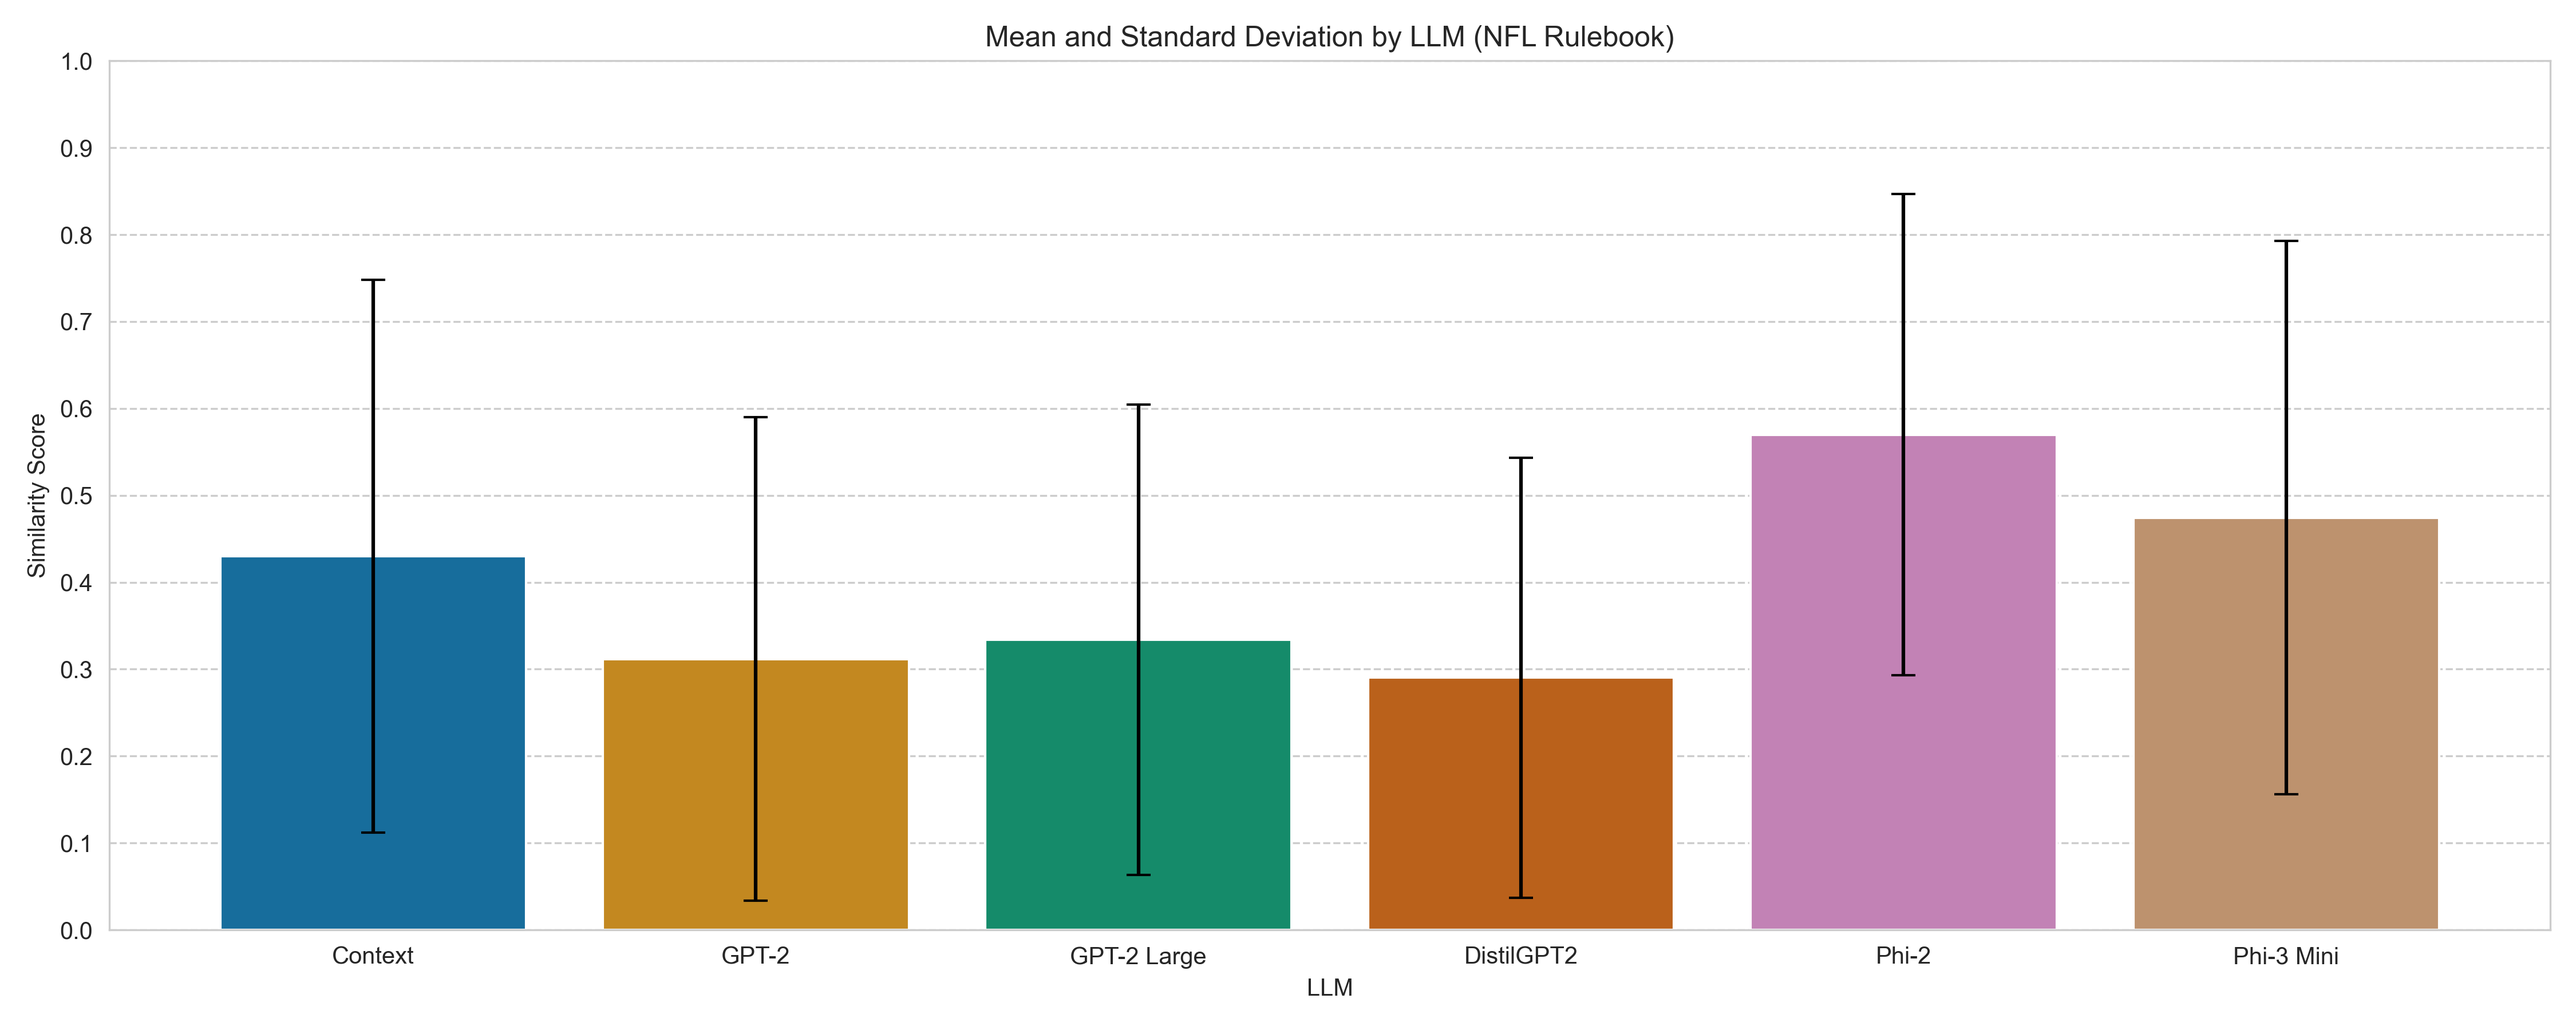
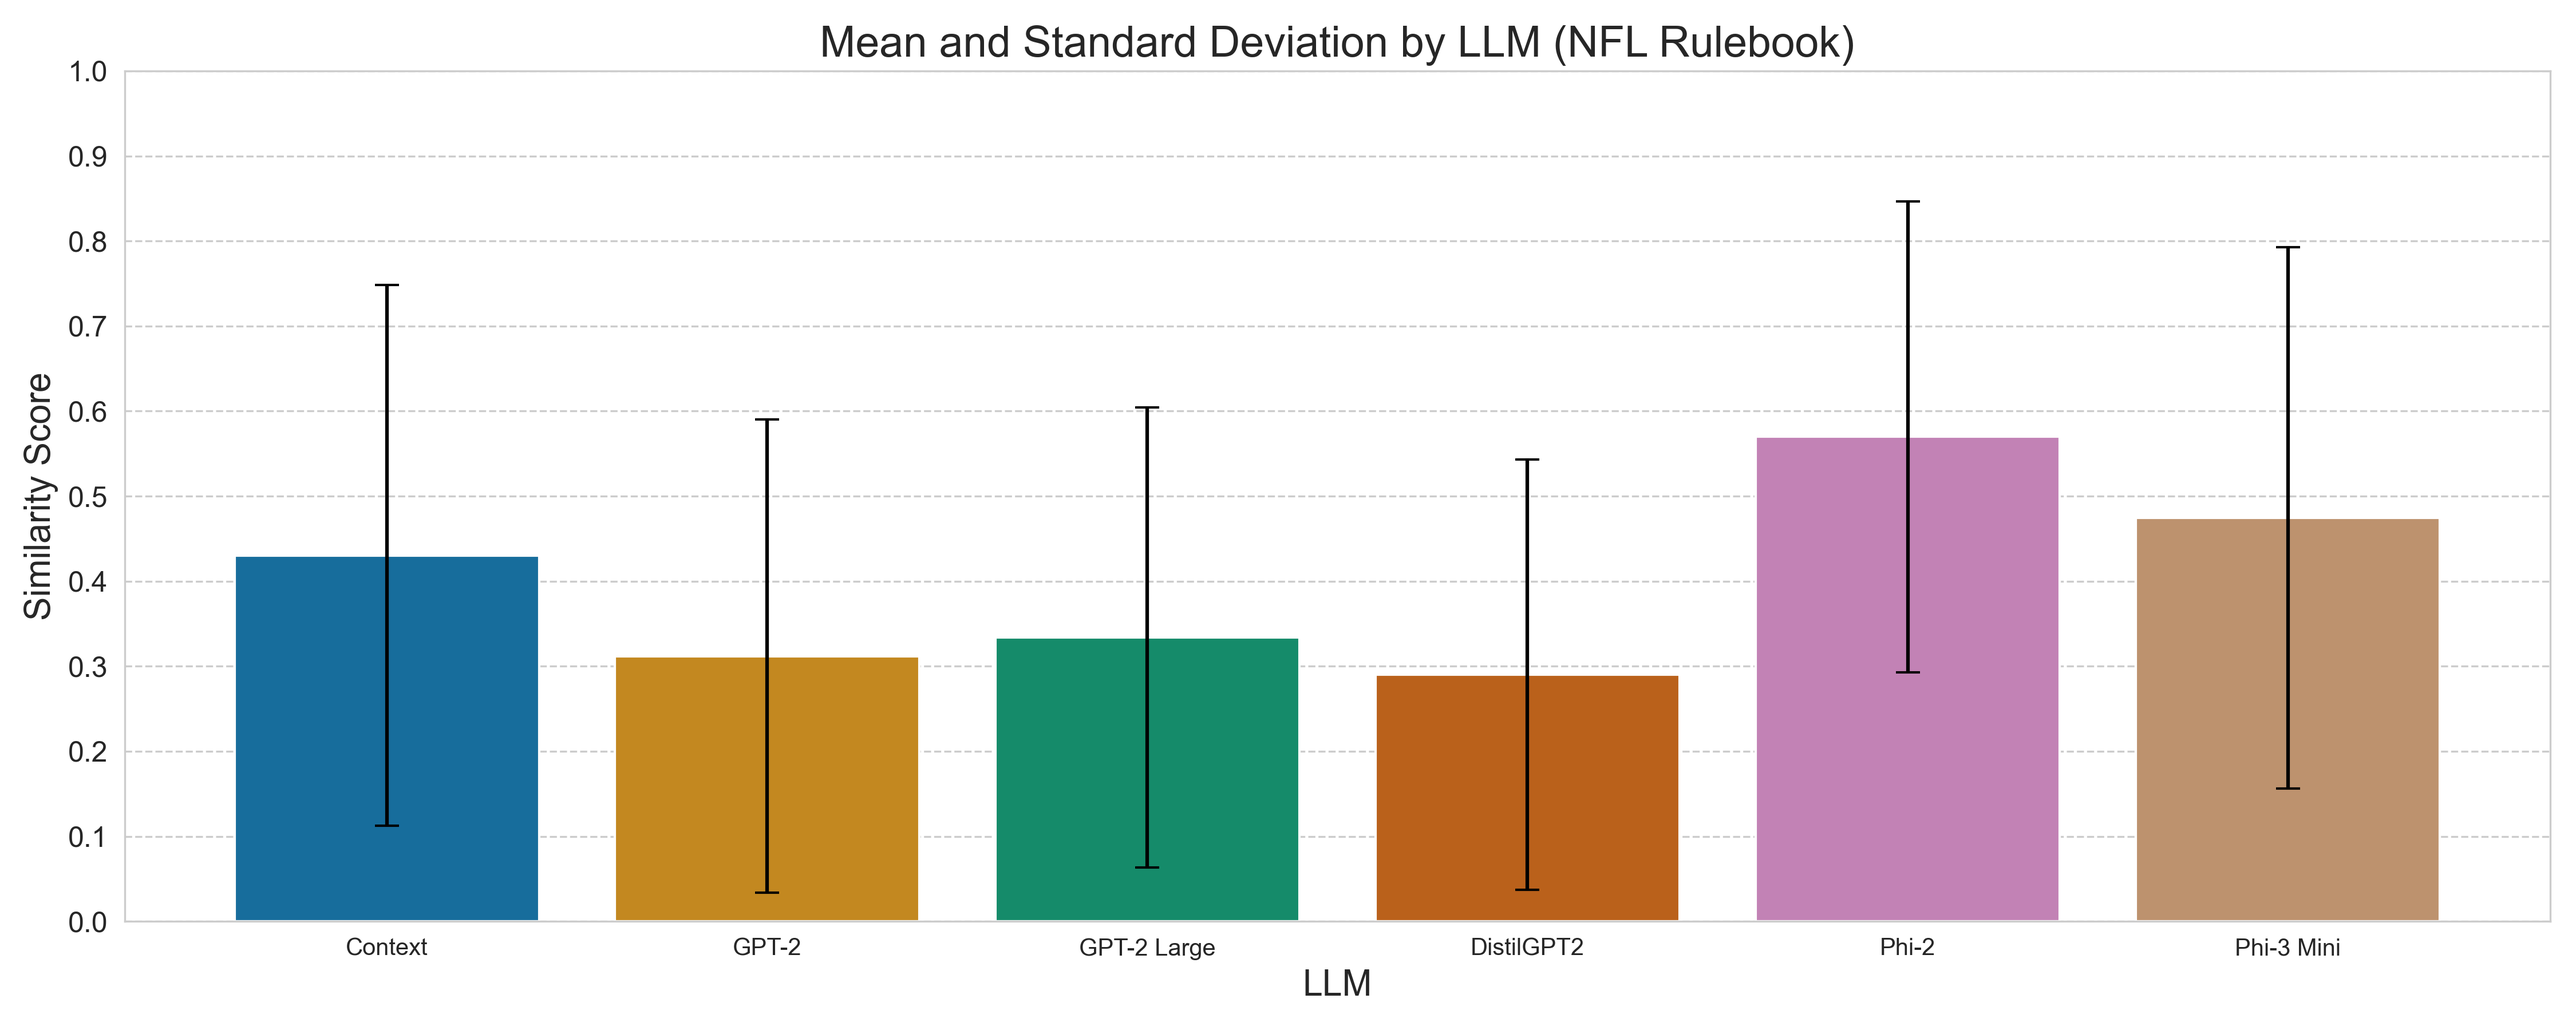
Mdae font bigger on plots

diff --git a/evaluation/plots.py b/evaluation/plots.py
@@ -35,11 +35,11 @@ sns.barplot(x=llm_labels, y=means, hue=llm_labels, palette="colorblind")
 plt.errorbar(
     x=llm_labels, y=means, yerr=std_devs, fmt="none", ecolor="black", capsize=5
 )
-plt.title("Mean and Standard Deviation by LLM (NFL Rulebook)")
-plt.xlabel("LLM")
-plt.ylabel("Similarity Score")
+plt.title("Mean and Standard Deviation by LLM (NFL Rulebook)", fontsize=18)
+plt.xlabel("LLM", fontsize=15)
+plt.ylabel("Similarity Score", fontsize=15)
 plt.ylim(0, 1.0)
-plt.yticks(np.arange(0, 1.1, 0.1))
+plt.yticks(np.arange(0, 1.1, 0.1), fontsize=12)
 plt.tight_layout()
 
 plt.savefig("results/figures/nfl.png", dpi=300)
@@ -71,11 +71,11 @@ sns.barplot(x=llm_labels, y=means, hue=llm_labels, palette="colorblind")
 plt.errorbar(
     x=llm_labels, y=means, yerr=std_devs, fmt="none", ecolor="black", capsize=5
 )
-plt.title("Mean and Standard Deviation by LLM (Syllabus)")
-plt.xlabel("LLM")
-plt.ylabel("Similarity Score")
+plt.title("Mean and Standard Deviation by LLM (Syllabus)", fontsize=18)
+plt.xlabel("LLM", fontsize=15)
+plt.ylabel("Similarity Score", fontsize=15)
 plt.ylim(0, 1.0)
-plt.yticks(np.arange(0, 1.1, 0.1))
+plt.yticks(np.arange(0, 1.1, 0.1), fontsize=12)
 plt.tight_layout()
 
 plt.savefig("results/figures/syllabus.png", dpi=300)
